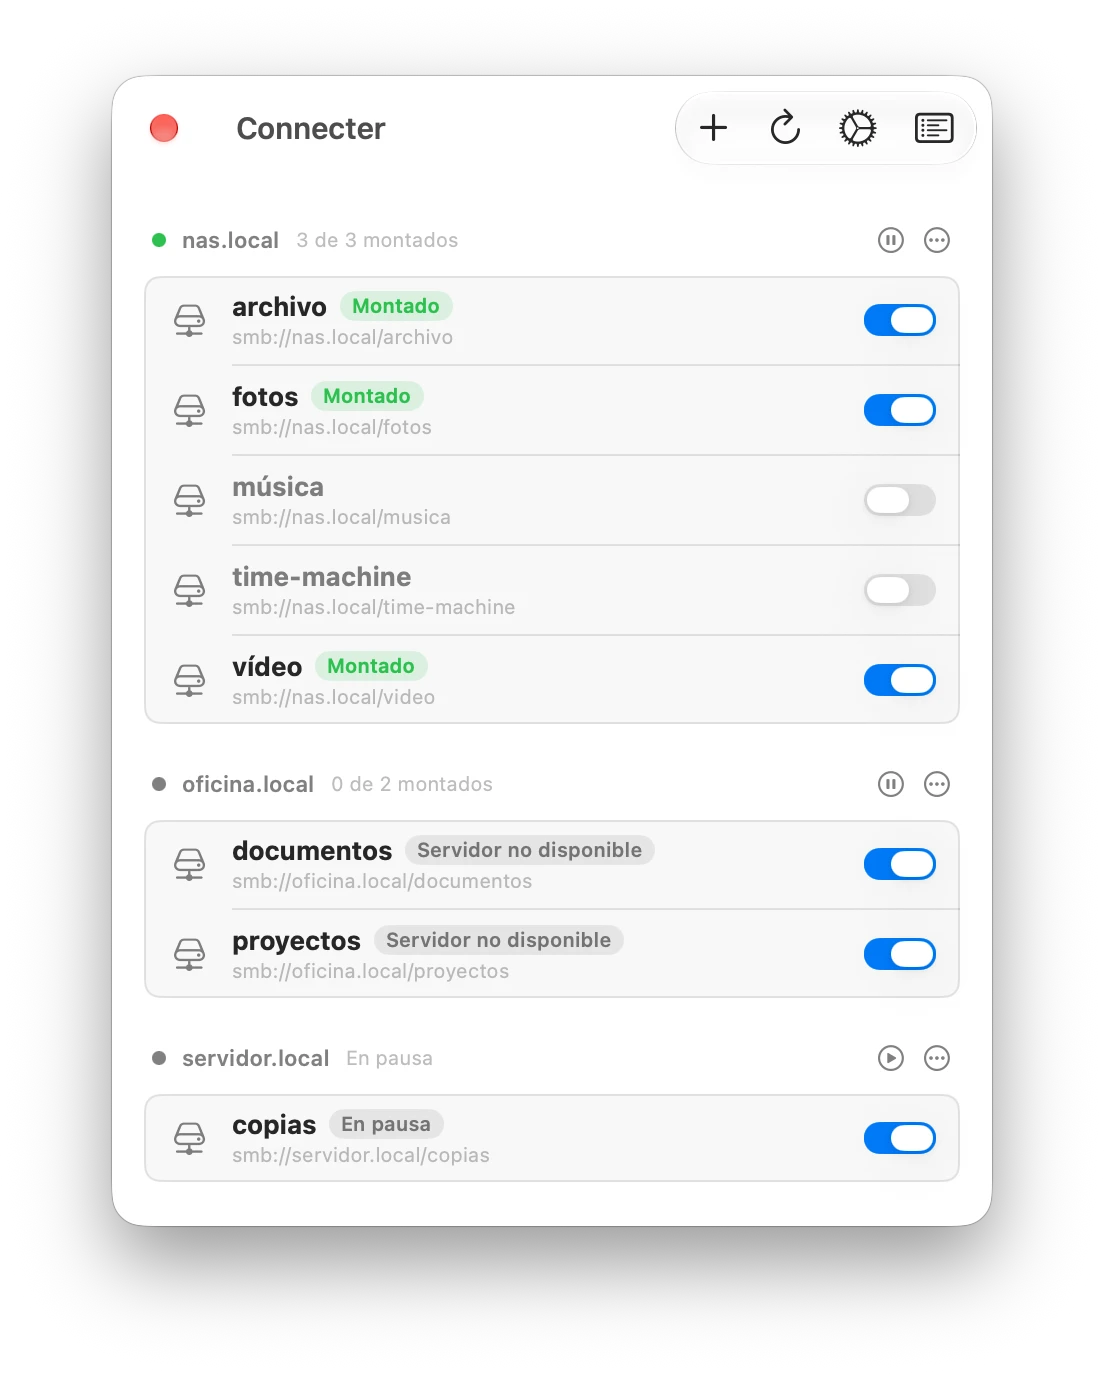
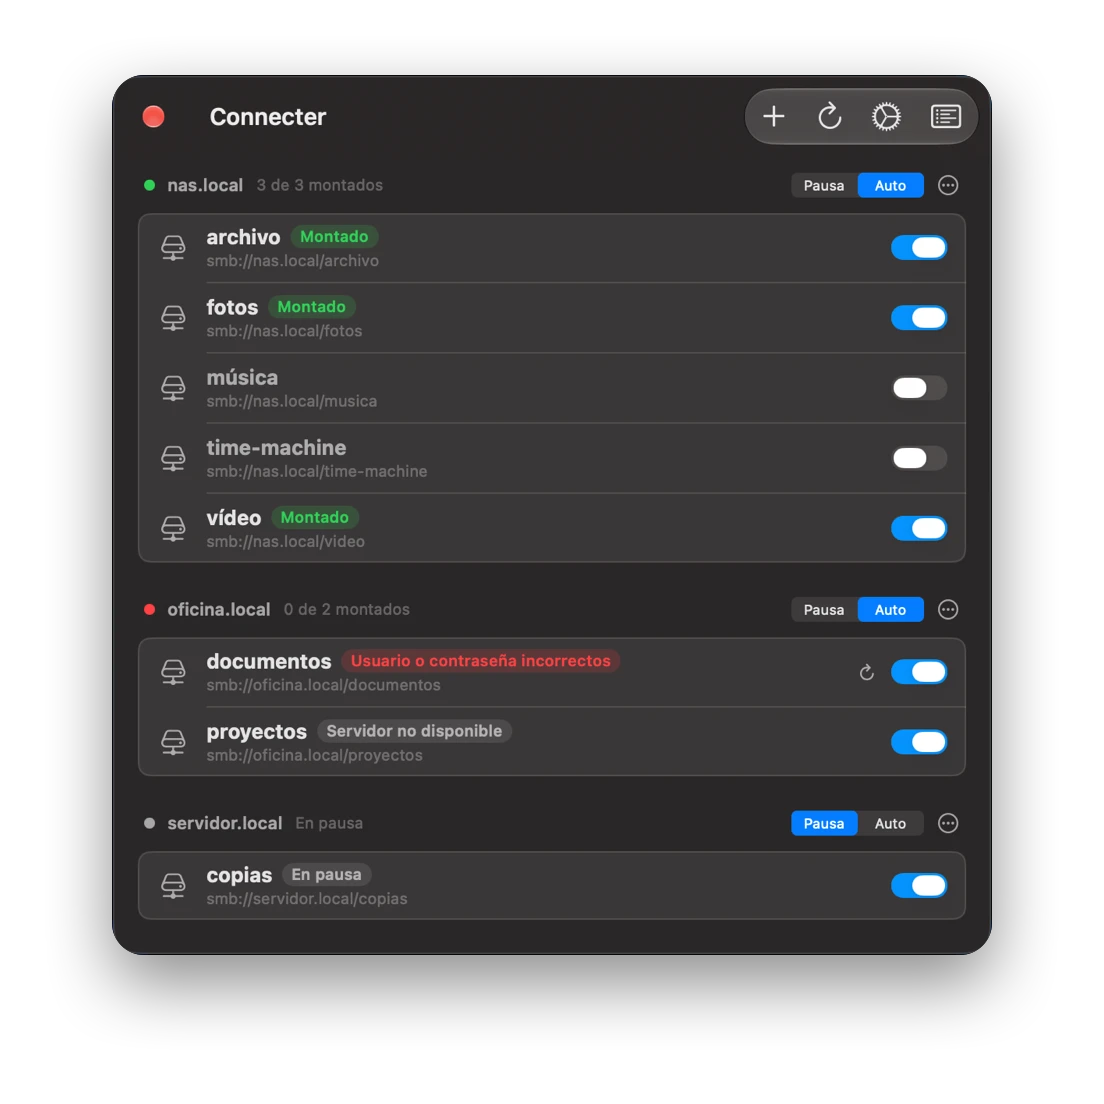
Connecter: captura de la ventana con la interfaz de la 1.2 (selector Pausa / Auto)
- window y ventana salen de las capturas de la App Store (docs/app-store/
  screenshots/{en,es}/1.png de la app), recortadas con esquinas y sombra
  como las anteriores.
- Solo hay versión oscura: las variantes -light son la misma imagen.
- La ventana es ahora cuadrada: 552×552 en el HTML y en el cálculo de
  .rw-frame. Texto alternativo al día.

diff --git a/connecter/es/index.html b/connecter/es/index.html
@@ -276,7 +276,7 @@
     .rw-copy { text-align: center; max-width: 34em; }
     .rw-copy h2 { font-size: clamp(30px, 4.6vw, 48px); letter-spacing: -.025em; line-height: 1.1; margin: 0 0 10px; }
     .rw-copy p { color: var(--muted); font-size: clamp(16px, 1.8vw, 19px); margin: 0; }
-    .rw-frame { position: relative; width: min(420px, 76vw, calc((100svh - 260px) * 552 / 687)); transform-origin: 50% 100%; will-change: transform; }
+    .rw-frame { position: relative; width: min(420px, 76vw, calc((100svh - 260px) * 552 / 552)); transform-origin: 50% 100%; will-change: transform; }
     .rw-frame > img:first-child { display: block; width: 100%; height: auto; }
     .rw-menu {
       /* --mw: the menu's width in points; drawn at the window's scale (552 points wide), sticking out on the right */
@@ -495,7 +495,7 @@
         <div class="scheme" role="radiogroup" aria-label="Apariencia de la app en las capturas"><button type="button" role="radio" data-mode="system" aria-checked="true">Sistema</button><button type="button" role="radio" data-mode="light" aria-checked="false">Claro</button><button type="button" role="radio" data-mode="dark" aria-checked="false">Oscuro</button></div>
       </div>
       <div class="rw-frame" id="rwFrame">
-        <img src="../img/ventana.webp" width="552" height="687" alt="Ventana principal de Connecter con ocho recursos SMB agrupados por servidor: tres montados, dos en un servidor no disponible y uno en un servidor en pausa" data-scheme>
+        <img src="../img/ventana.webp" width="552" height="552" alt="Ventana principal de Connecter con ocho recursos SMB agrupados por servidor, cada uno con su selector Pausa / Auto: tres montados, uno con la contraseña incorrecta, uno en un servidor no disponible y uno en un servidor en pausa" data-scheme>
         <img class="rw-menu" id="rwMenu" src="../img/menu.webp" width="330" height="471" style="--mw: 330" alt="Menú de Connecter en la barra de menús: 3 de 5 montados, una sección por servidor y un punto verde junto a cada recurso montado" data-scheme>
       </div>
     </div>

diff --git a/connecter/index.html b/connecter/index.html
@@ -276,7 +276,7 @@
     .rw-copy { text-align: center; max-width: 34em; }
     .rw-copy h2 { font-size: clamp(30px, 4.6vw, 48px); letter-spacing: -.025em; line-height: 1.1; margin: 0 0 10px; }
     .rw-copy p { color: var(--muted); font-size: clamp(16px, 1.8vw, 19px); margin: 0; }
-    .rw-frame { position: relative; width: min(420px, 76vw, calc((100svh - 260px) * 552 / 687)); transform-origin: 50% 100%; will-change: transform; }
+    .rw-frame { position: relative; width: min(420px, 76vw, calc((100svh - 260px) * 552 / 552)); transform-origin: 50% 100%; will-change: transform; }
     .rw-frame > img:first-child { display: block; width: 100%; height: auto; }
     .rw-menu {
       /* --mw: the menu's width in points; drawn at the window's scale (552 points wide), sticking out on the right */
@@ -495,7 +495,7 @@
         <div class="scheme" role="radiogroup" aria-label="App appearance in the screenshots"><button type="button" role="radio" data-mode="system" aria-checked="true">System</button><button type="button" role="radio" data-mode="light" aria-checked="false">Light</button><button type="button" role="radio" data-mode="dark" aria-checked="false">Dark</button></div>
       </div>
       <div class="rw-frame" id="rwFrame">
-        <img src="img/window.webp" width="552" height="687" alt="Connecter main window with eight SMB shares grouped by server: three mounted, two on an unreachable server and one on a paused server" data-scheme>
+        <img src="img/window.webp" width="552" height="552" alt="Connecter main window with eight SMB shares grouped by server, each with its Pause / Auto selector: three mounted, one with a wrong password, one on an unreachable server and one on a paused server" data-scheme>
         <img class="rw-menu" id="rwMenu" src="img/menu-en.webp" width="304" height="471" style="--mw: 304" alt="Connecter menu in the menu bar: 3 of 5 mounted, one section per server and a green dot next to each mounted share" data-scheme>
       </div>
     </div>

diff --git a/tools/connecter/template.html b/tools/connecter/template.html
@@ -248,7 +248,7 @@
     .rw-copy { text-align: center; max-width: 34em; }
     .rw-copy h2 { font-size: clamp(30px, 4.6vw, 48px); letter-spacing: -.025em; line-height: 1.1; margin: 0 0 10px; }
     .rw-copy p { color: var(--muted); font-size: clamp(16px, 1.8vw, 19px); margin: 0; }
-    .rw-frame { position: relative; width: min(420px, 76vw, calc((100svh - 260px) * 552 / 687)); transform-origin: 50% 100%; will-change: transform; }
+    .rw-frame { position: relative; width: min(420px, 76vw, calc((100svh - 260px) * 552 / 552)); transform-origin: 50% 100%; will-change: transform; }
     .rw-frame > img:first-child { display: block; width: 100%; height: auto; }
     .rw-menu {
       /* --mw: the menu's width in points; drawn at the window's scale (552 points wide), sticking out on the right */
@@ -447,7 +447,7 @@
         {{scheme}}
       </div>
       <div class="rw-frame" id="rwFrame">
-        <img src="{{root}}img/{{img_win}}.webp" width="552" height="687" alt="{{win_alt}}" data-scheme>
+        <img src="{{root}}img/{{img_win}}.webp" width="552" height="552" alt="{{win_alt}}" data-scheme>
         <img class="rw-menu" id="rwMenu" src="{{root}}img/{{img_menu}}.webp" width="{{menu_w}}" height="471" style="--mw: {{menu_w}}" alt="{{menu_alt}}" data-scheme>
       </div>
     </div>
